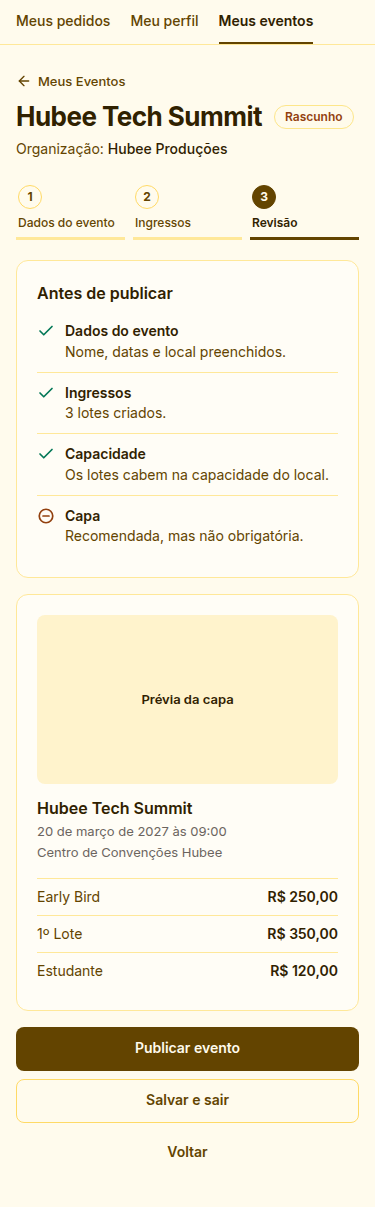
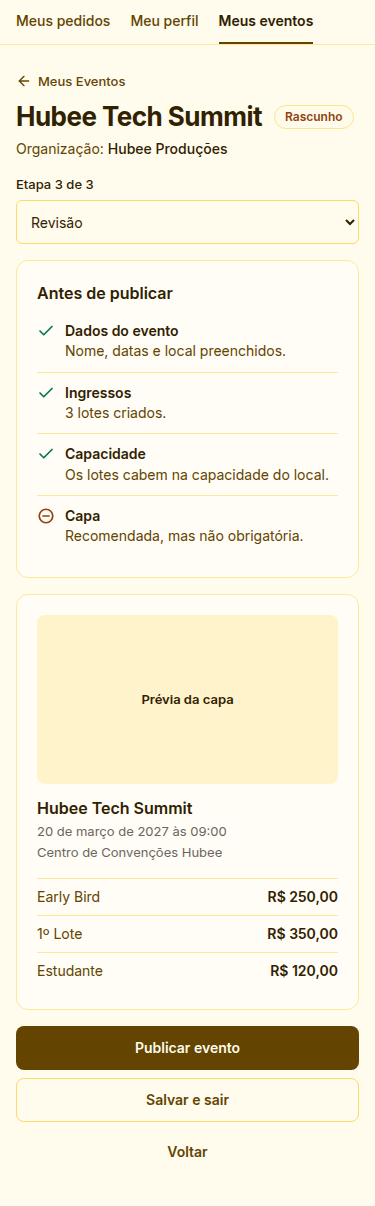
docs(GOL-205): troca etapas por dropdown no mobile

diff --git a/docs/figma/criacao-eventos-lotes.md b/docs/figma/criacao-eventos-lotes.md
@@ -21,6 +21,8 @@ flowchart LR
     D -- Salvar e sair --> A
 ```
 
+No desktop, as etapas aparecem lado a lado. No mobile, elas viram um dropdown com a indicação "Etapa X de 3", para ocupar menos espaço no topo da tela.
+
 ## Etapa 1: dados do evento
 
 | Seção | Campo | Regra | Campo da API |
